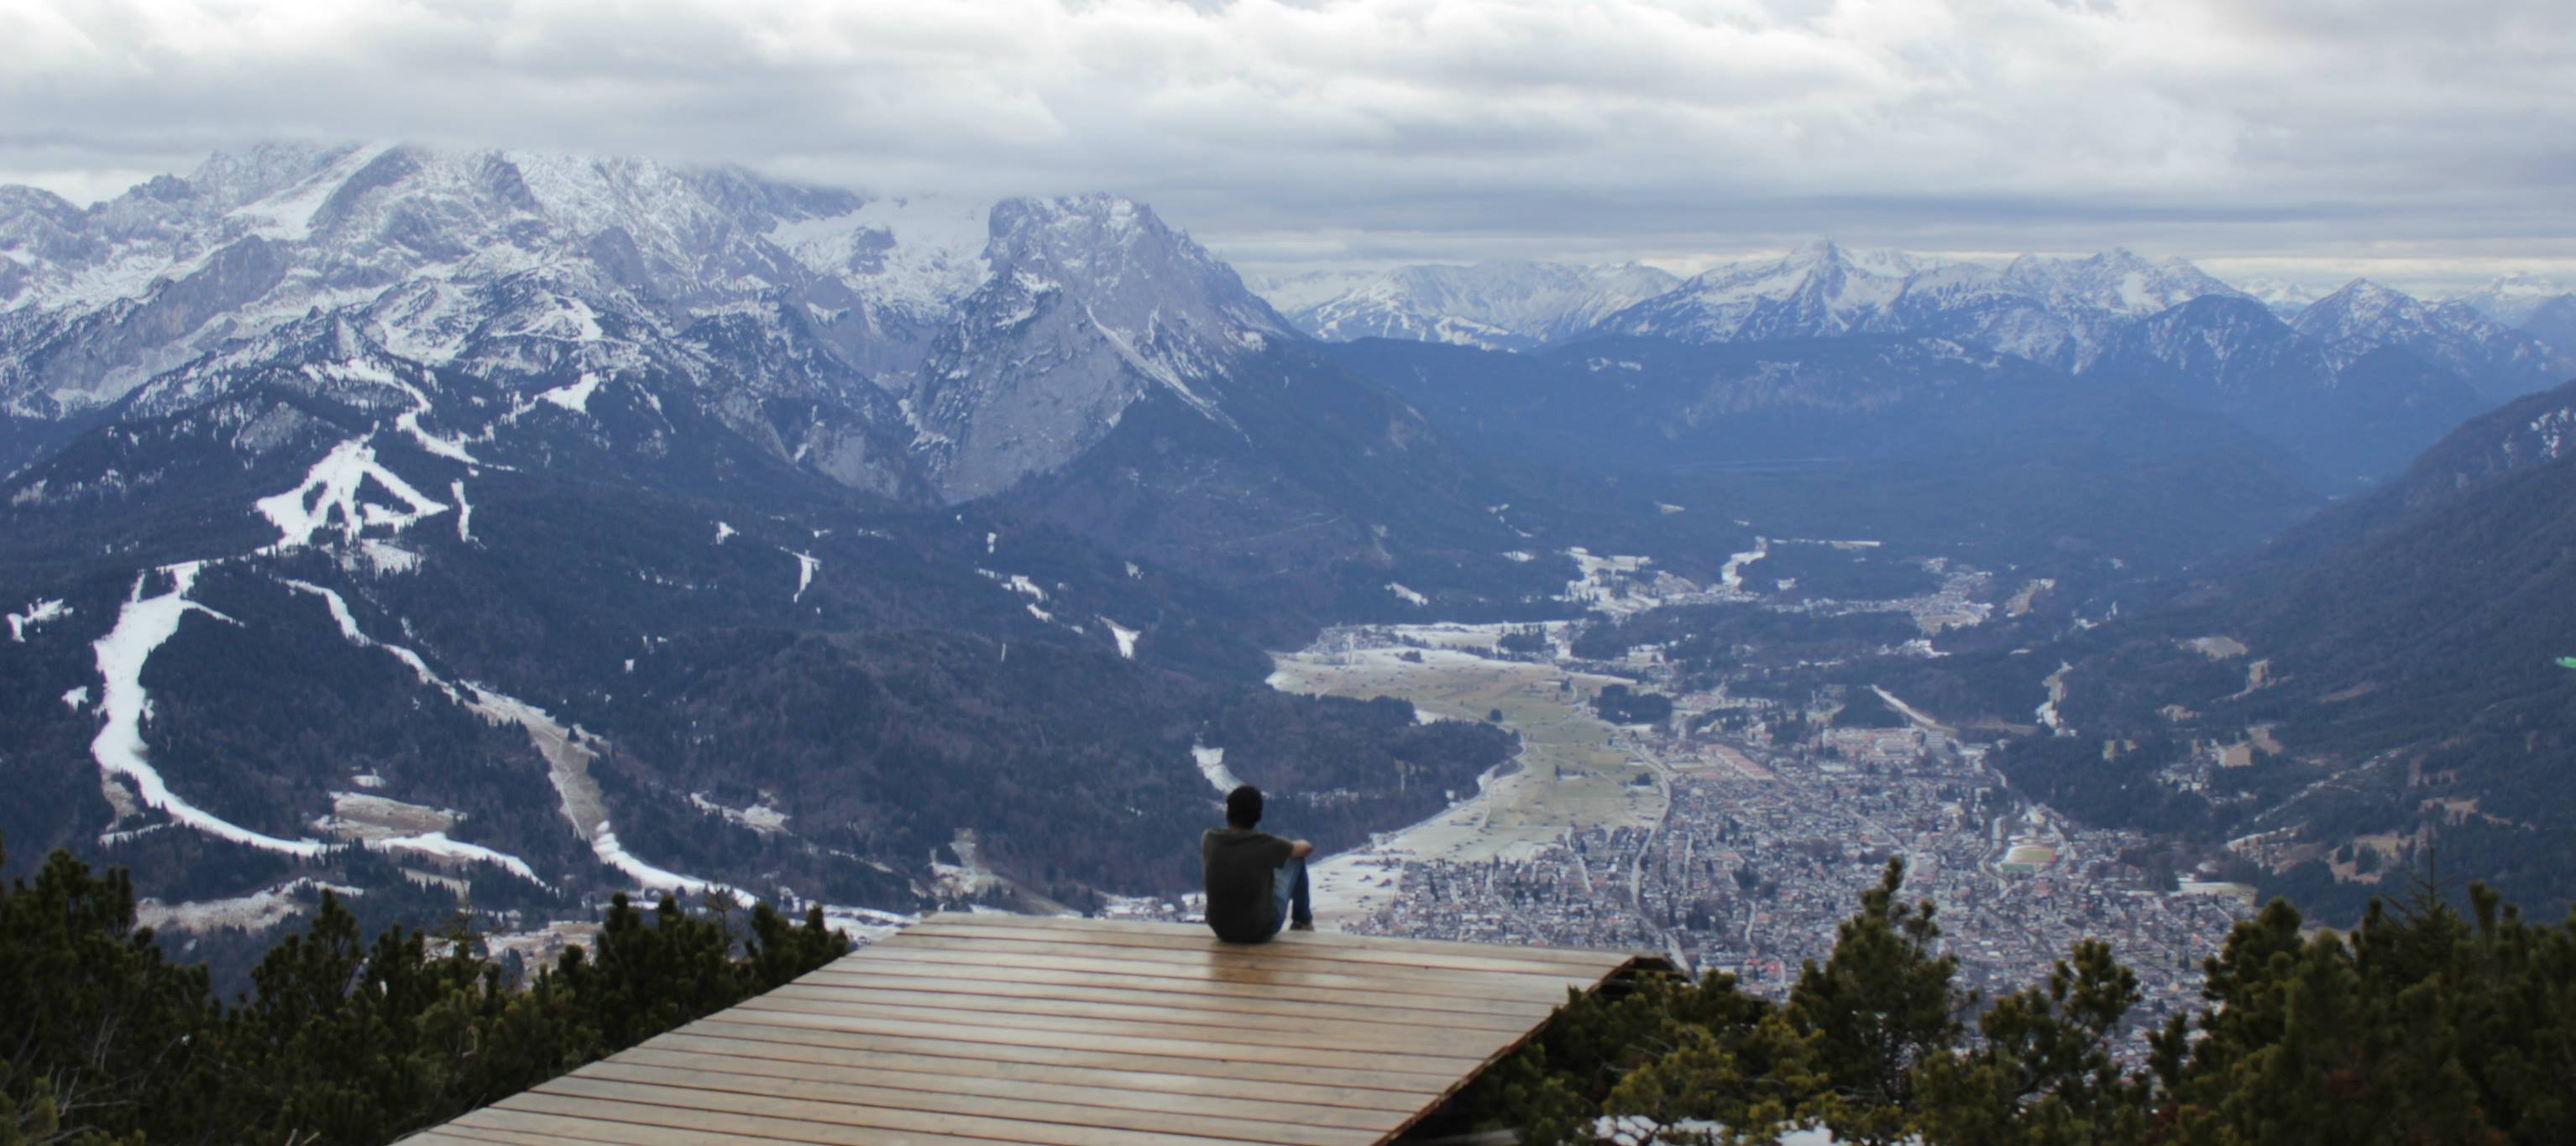
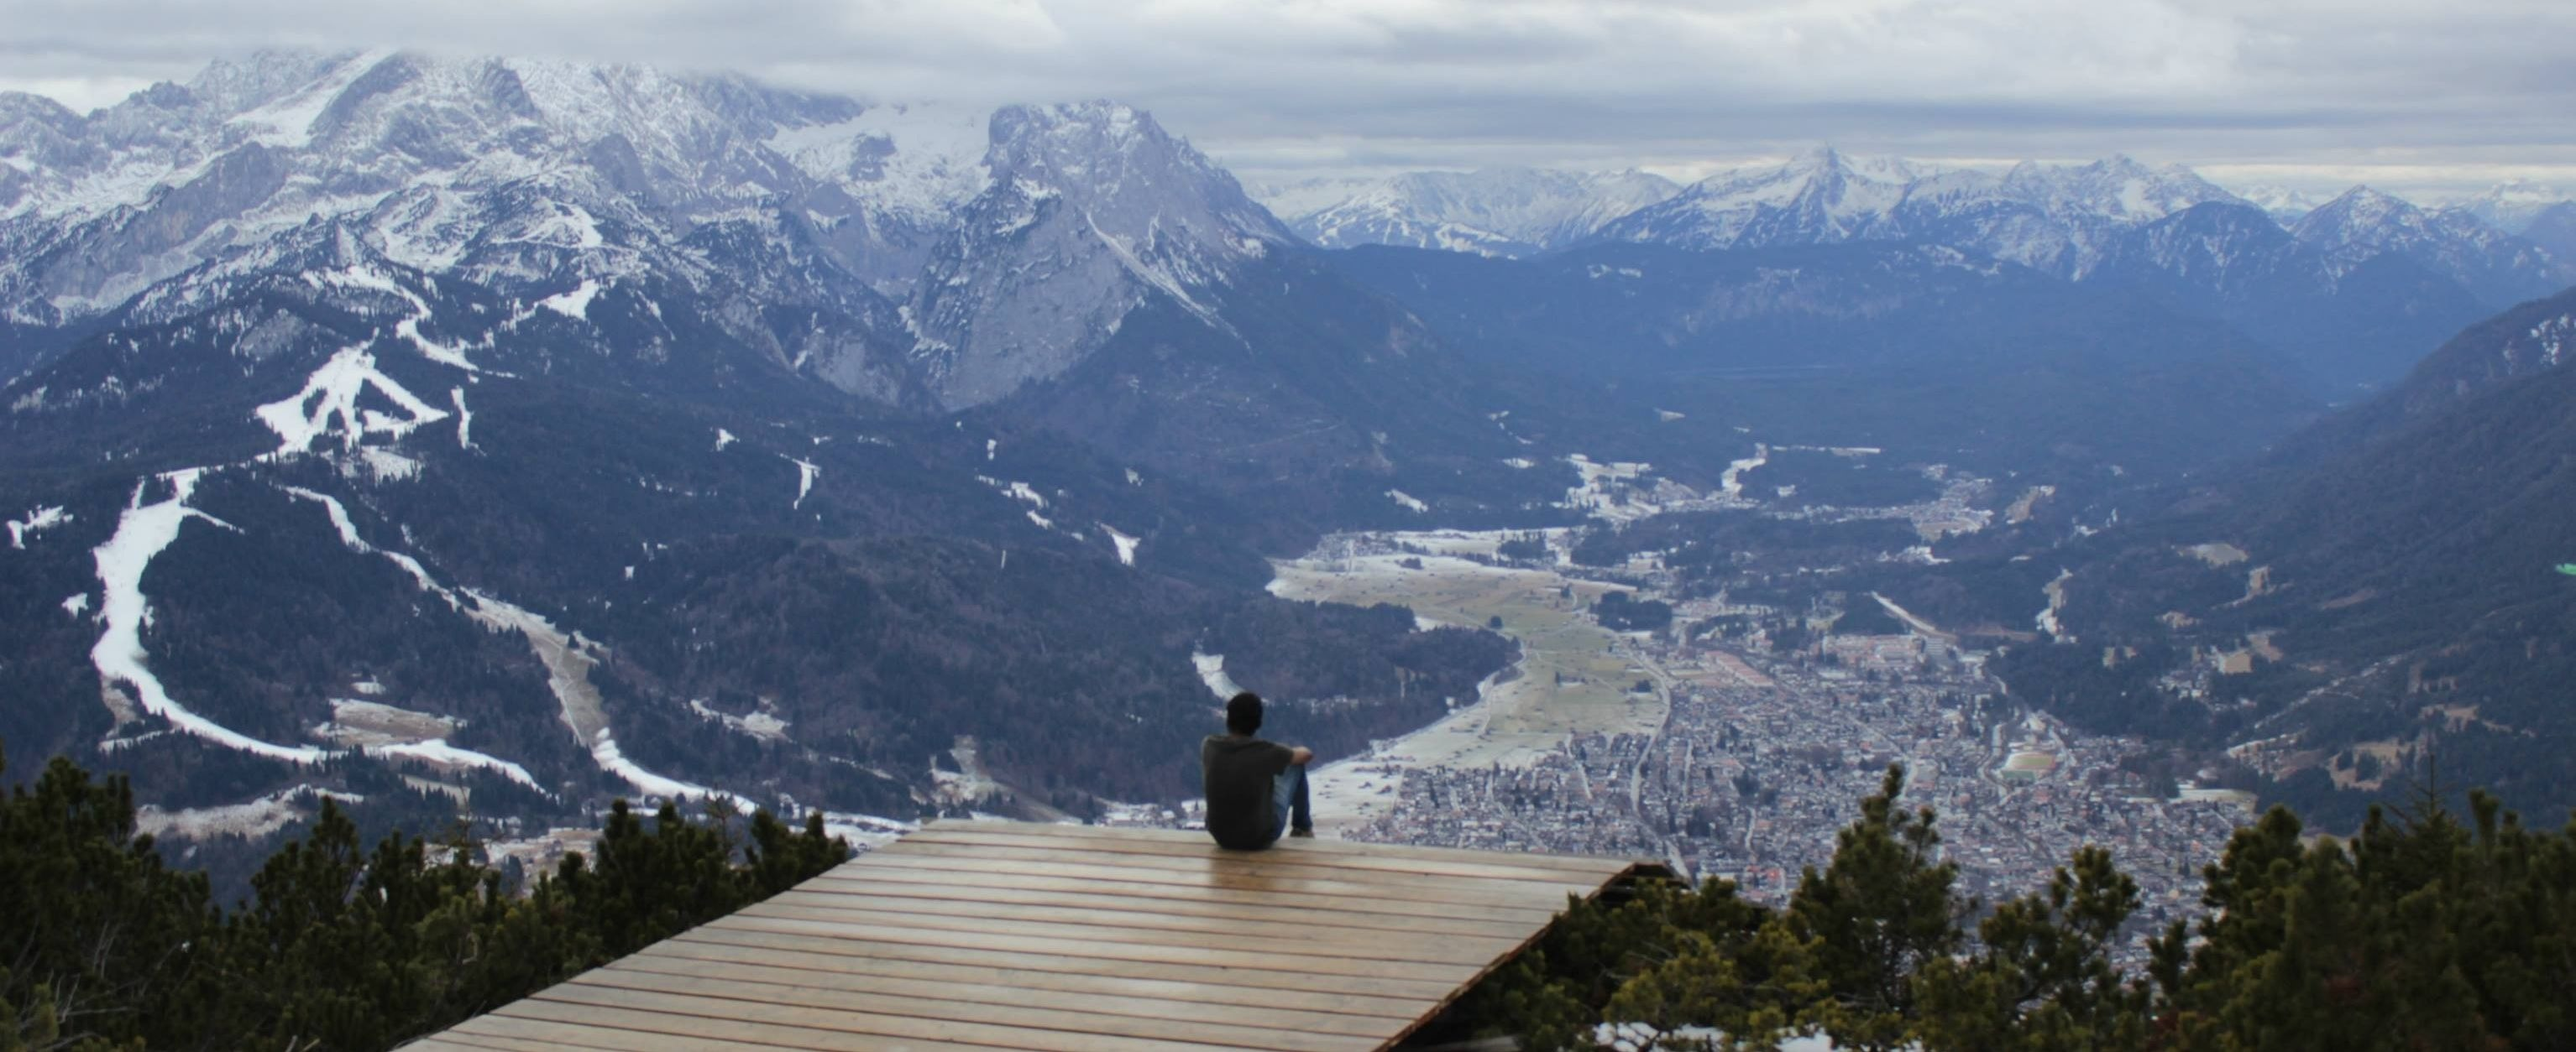
austria updated

diff --git a/_sass/layout/_banner.scss b/_sass/layout/_banner.scss
@@ -9,7 +9,7 @@
 	#banner {
 		@include vendor('align-items', 'center');
 		/*@include vendor('background-image', 'url("../images/banner.jpg")');*/
-		@include vendor('background', 'url("../images/wank1.jpg")');
+		@include vendor('background', 'url("../images/wank.jpg")');
 		@include vendor('background-size', 'cover');
 		@include vendor('display', 'flex');
 		@include padding(4em, 0, (2em, 0, 0, 0));

diff --git a/austria.md b/austria.md
@@ -23,7 +23,7 @@ show_tile: true
 <section id="two" class="spotlights">
 	<section>
 		<a href="belgium.html" class="image">
-			<img src="assets/images/pic08.jpg" alt="" data-position="center center" />
+			<img src="assets/images/ehrwald.jpg" alt="" data-position="center center" />
 		</a>
 		<div class="content">
 			<div class="inner">
@@ -39,7 +39,7 @@ show_tile: true
 	</section>
 	<section>
 		<a href="belgium.html" class="image">
-			<img src="assets/images/pic09.jpg" alt="" data-position="top center" />
+			<img src="assets/images/eisriesenwelt.jpg" alt="" data-position="top center" />
 		</a>
 		<div class="content">
 			<div class="inner">
@@ -55,7 +55,7 @@ show_tile: true
 	</section>
 	<section>
 		<a href="belgium.html" class="image">
-			<img src="assets/images/pic10.jpg" alt="" data-position="25% 25%" />
+			<img src="assets/images/flachau.jpg" alt="" data-position="25% 25%" />
 		</a>
 		<div class="content">
 			<div class="inner">
